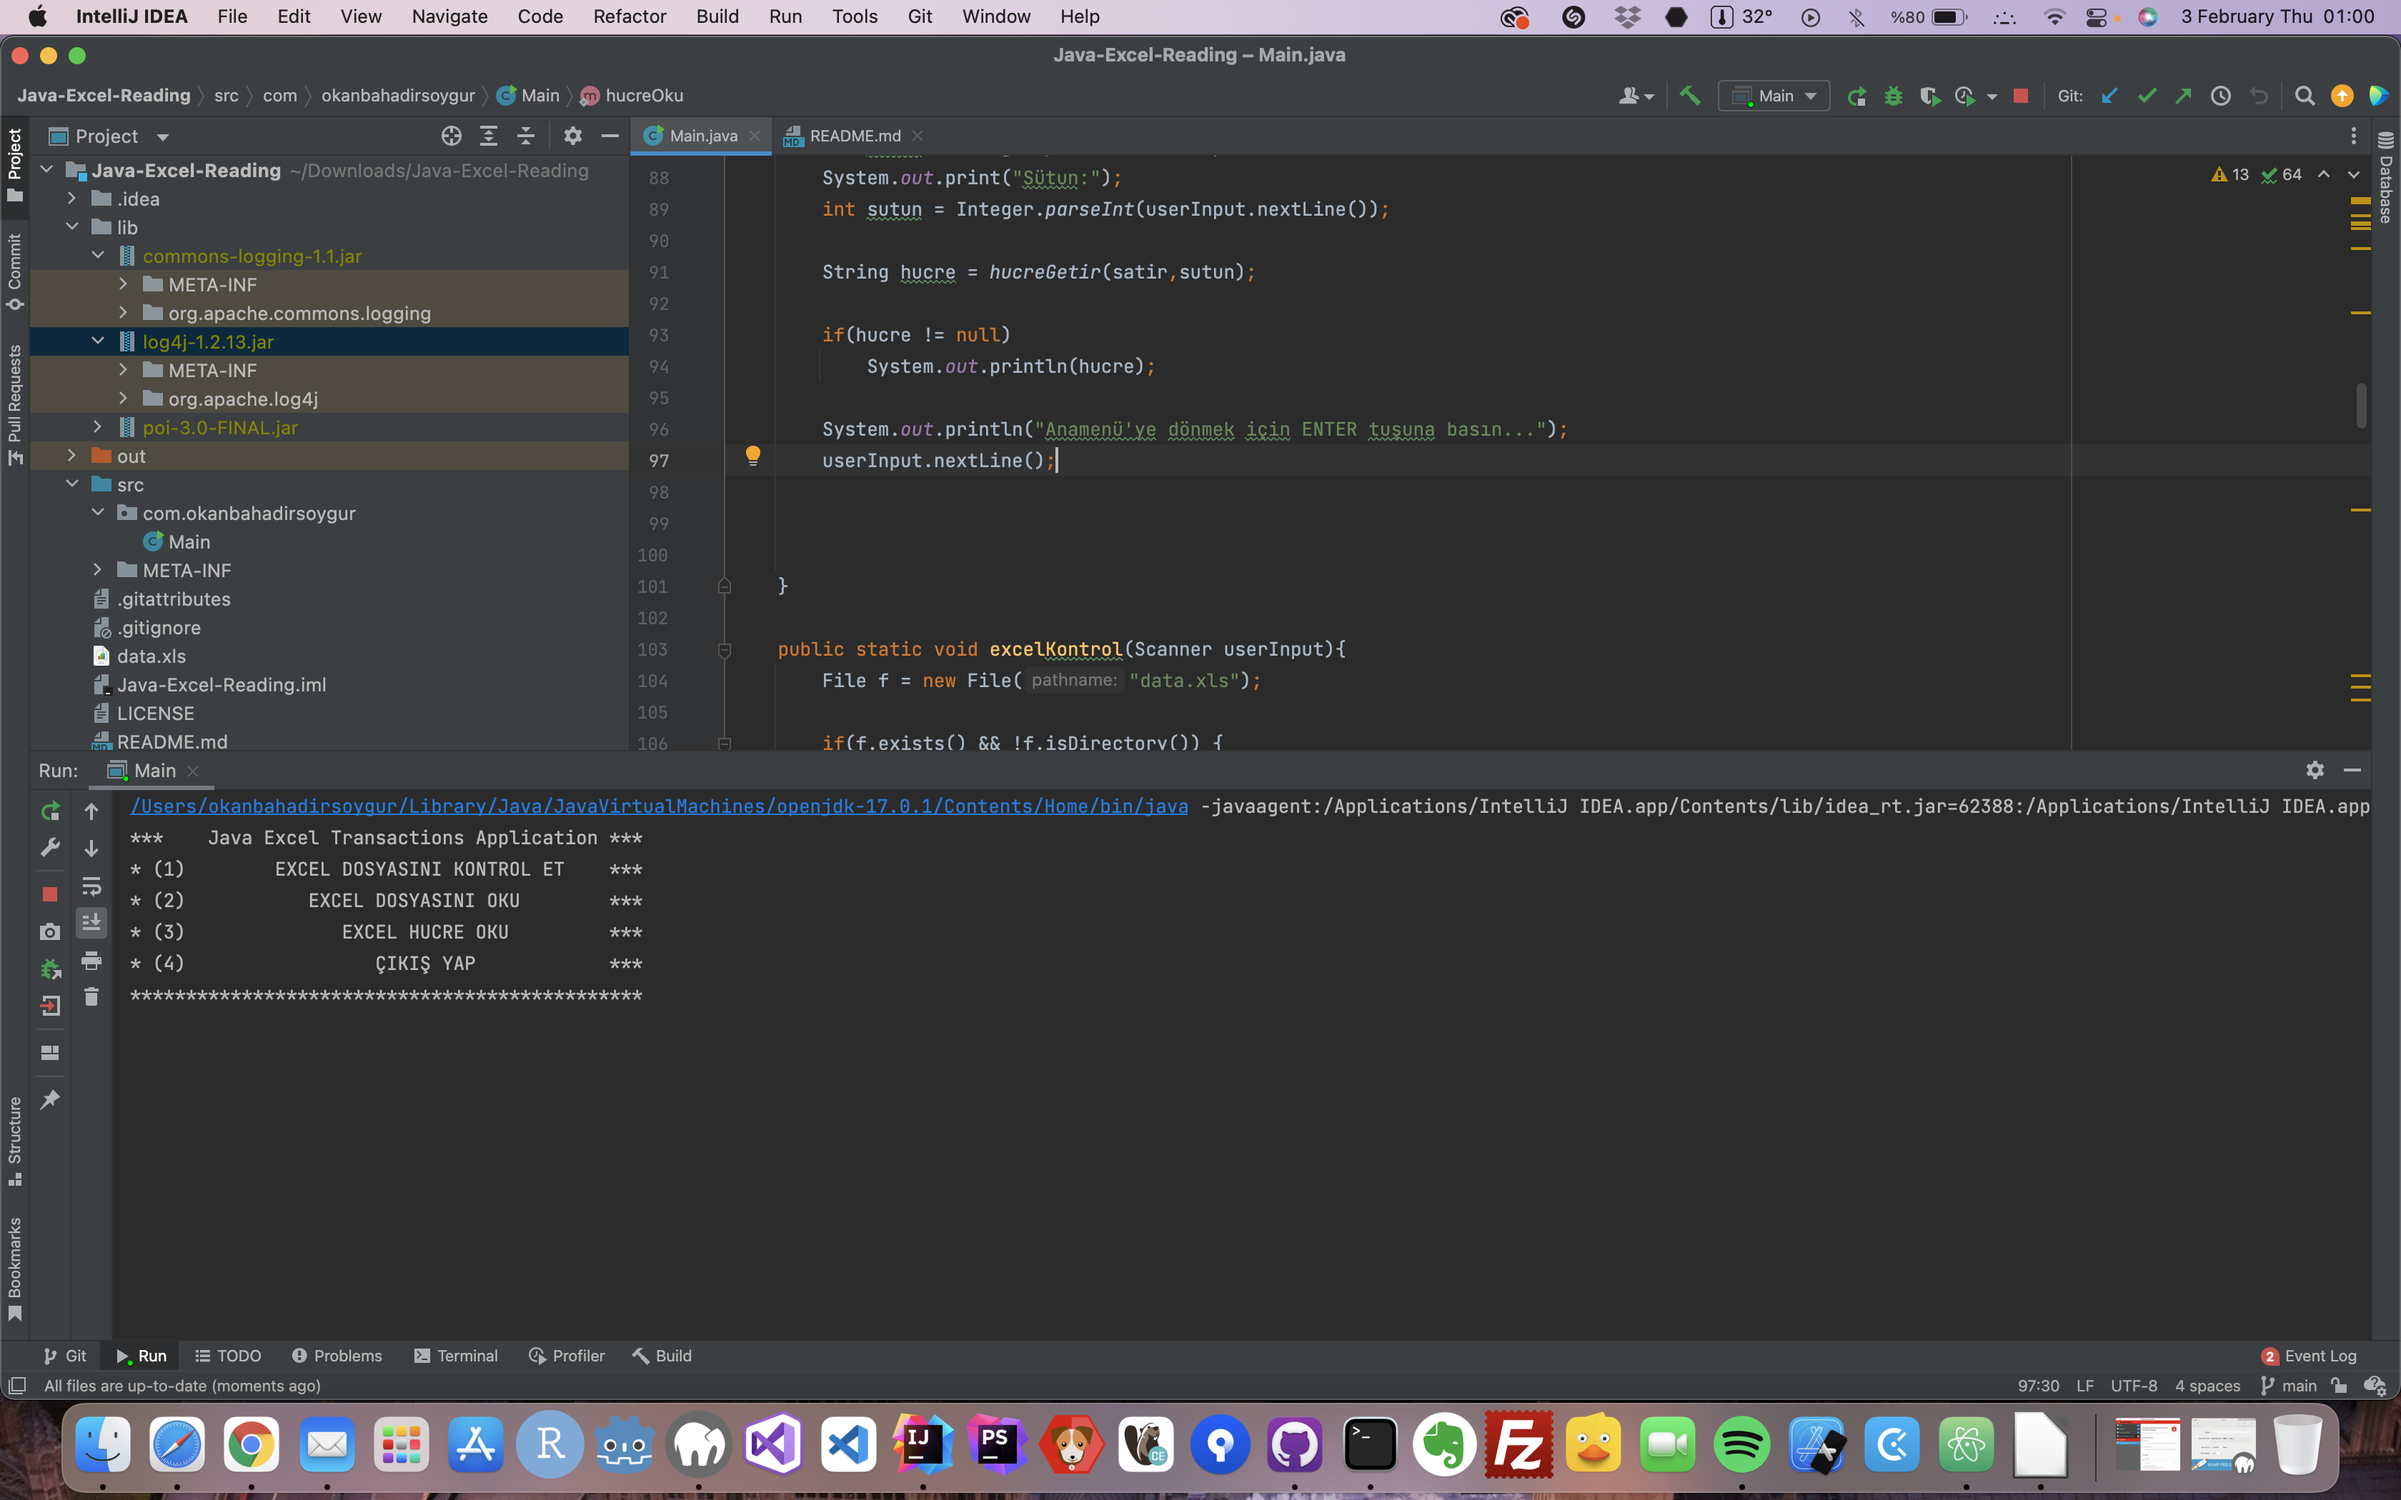
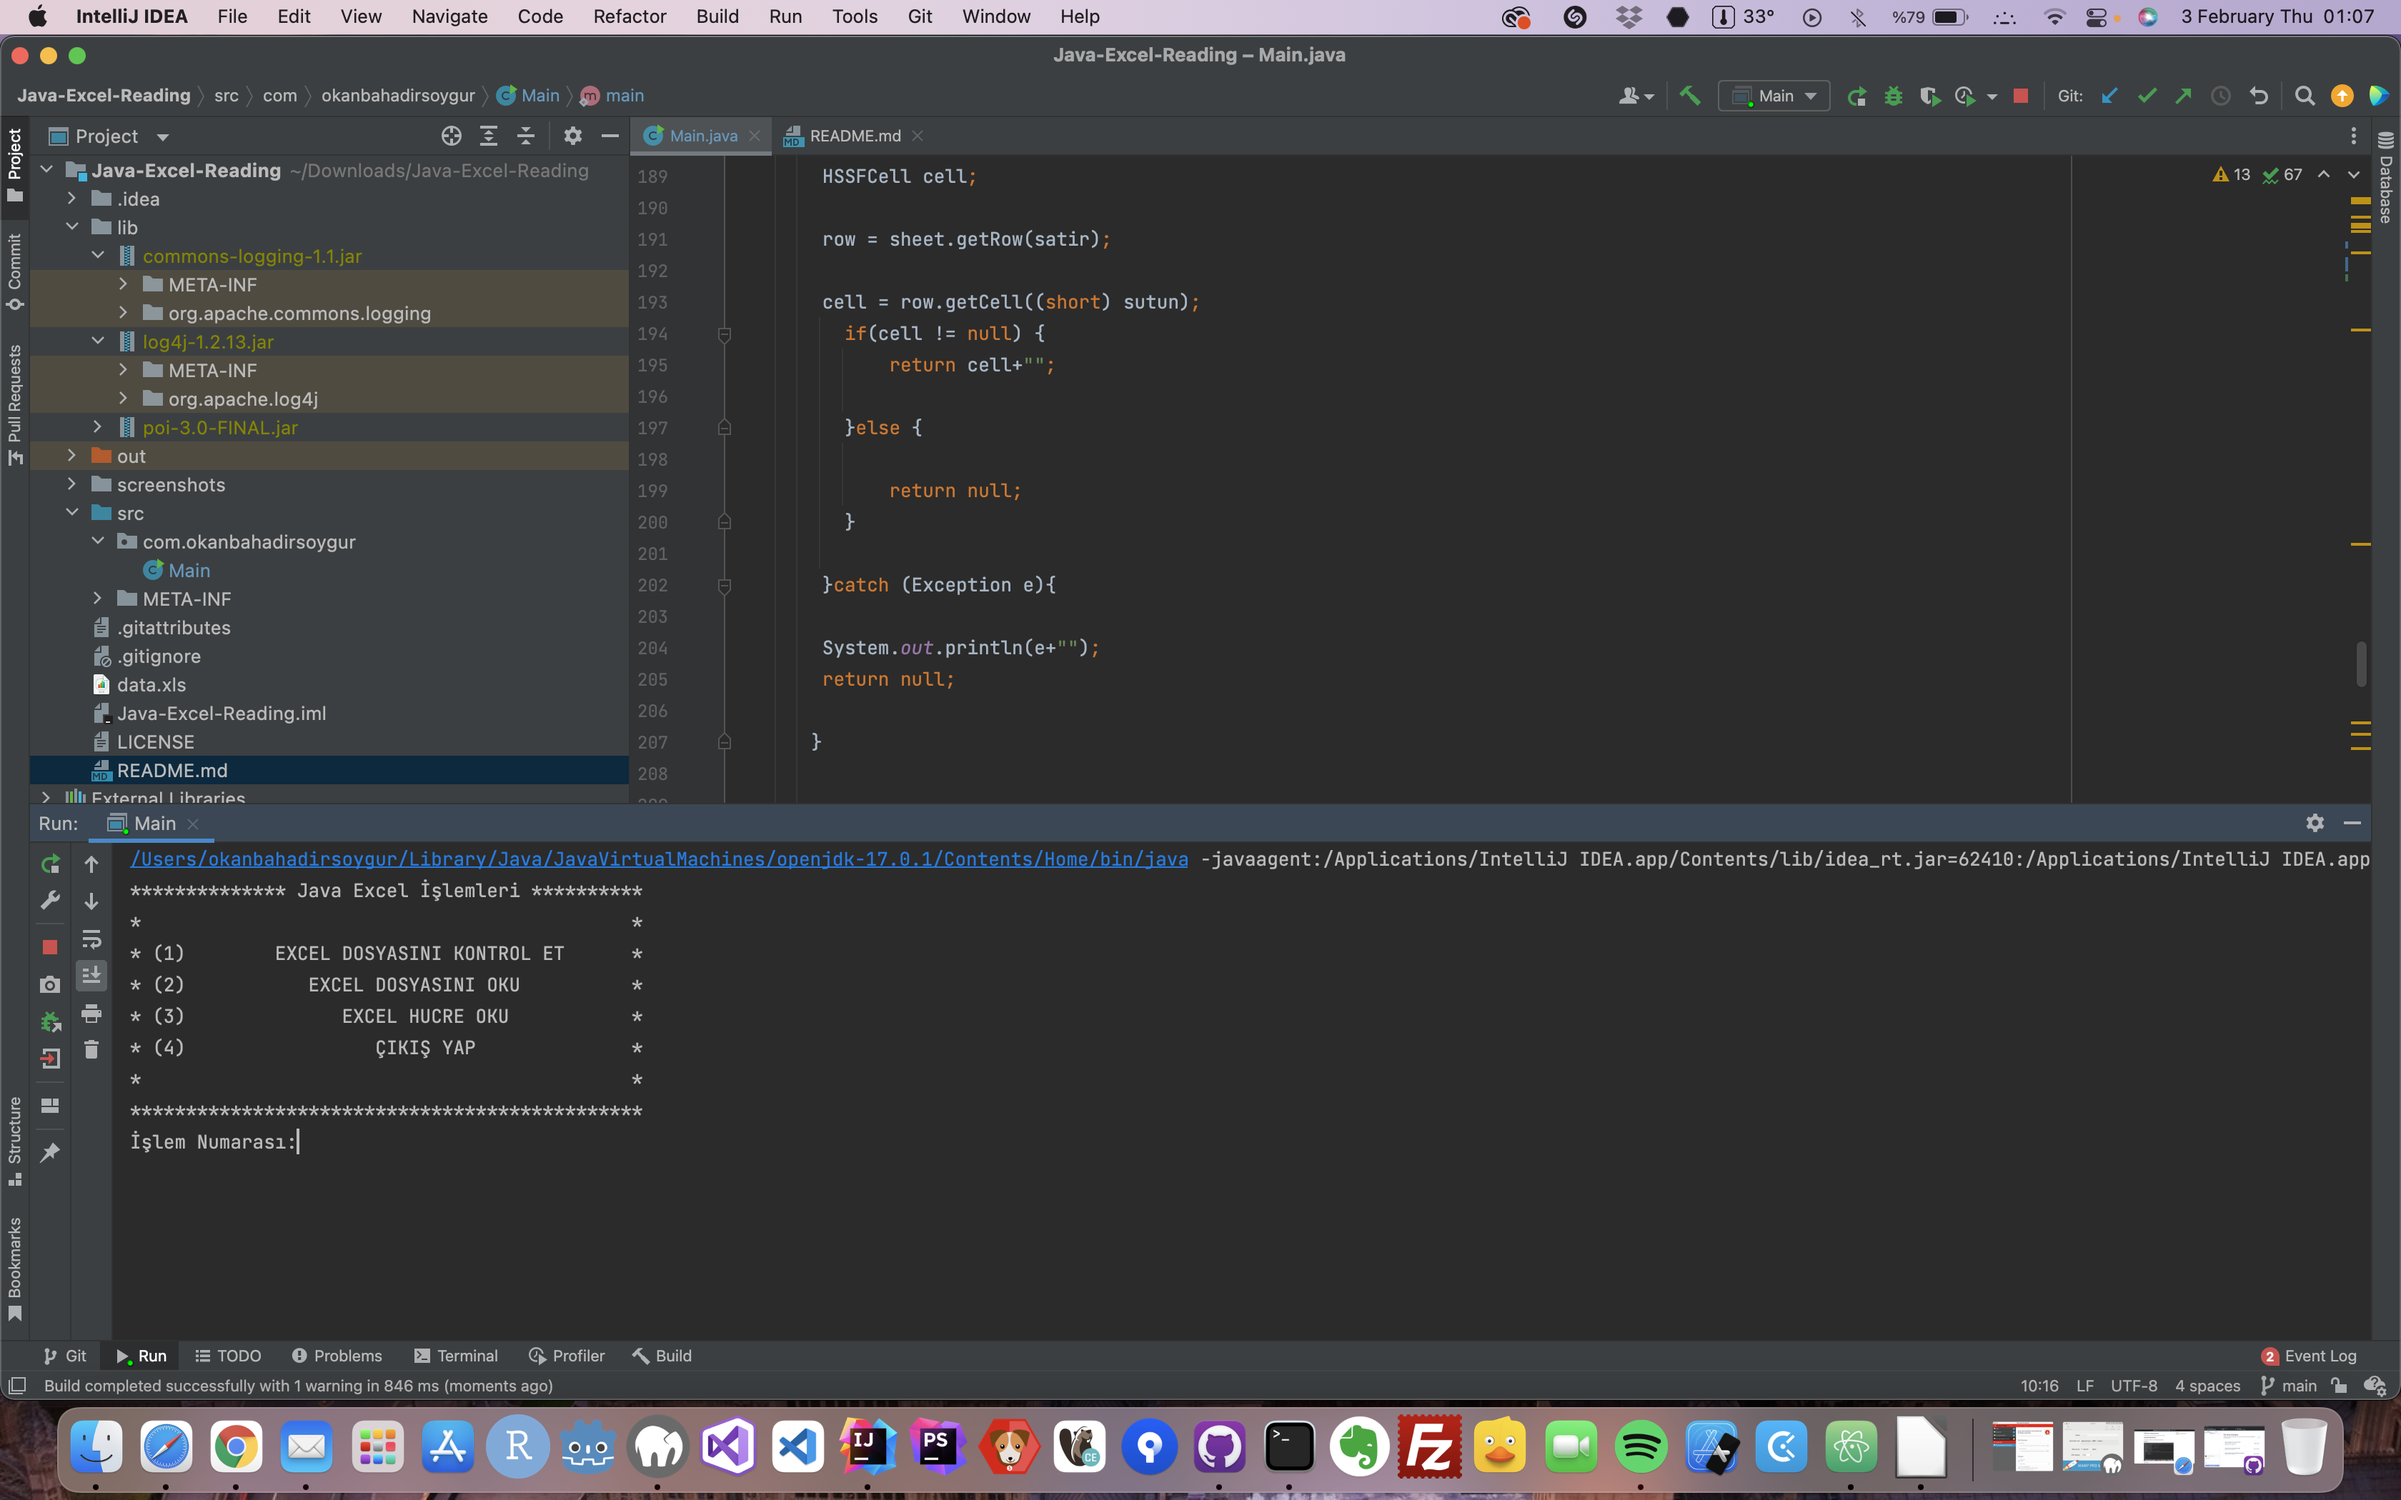
img

diff --git a/src/com/okanbahadirsoygur/Main.java b/src/com/okanbahadirsoygur/Main.java
@@ -19,18 +19,21 @@ import java.util.Set;
 public class Main {
 
     public static void main(String[] args) {
-	// write your code here
+
 
         Scanner userInput = new Scanner(System.in);
         String komut = "0";
         while (true && !komut.equals( "4")){
 
-            System.out.println("***    Java Excel Transactions Application ***");
-            System.out.println("* (1)        EXCEL DOSYASINI KONTROL ET    ***");
-            System.out.println("* (2)           EXCEL DOSYASINI OKU        ***");
-            System.out.println("* (3)              EXCEL HUCRE OKU         ***");
-            System.out.println("* (4)                 ÇIKIŞ YAP            ***");
+            System.out.println("************** Java Excel İşlemleri **********");
+            System.out.println("*                                            *");
+            System.out.println("* (1)        EXCEL DOSYASINI KONTROL ET      *");
+            System.out.println("* (2)           EXCEL DOSYASINI OKU          *");
+            System.out.println("* (3)              EXCEL HUCRE OKU           *");
+            System.out.println("* (4)                 ÇIKIŞ YAP              *");
+            System.out.println("*                                            *");
             System.out.println("**********************************************");
+            System.out.print("İşlem Numarası:");
 
             komut = userInput.nextLine();
 
